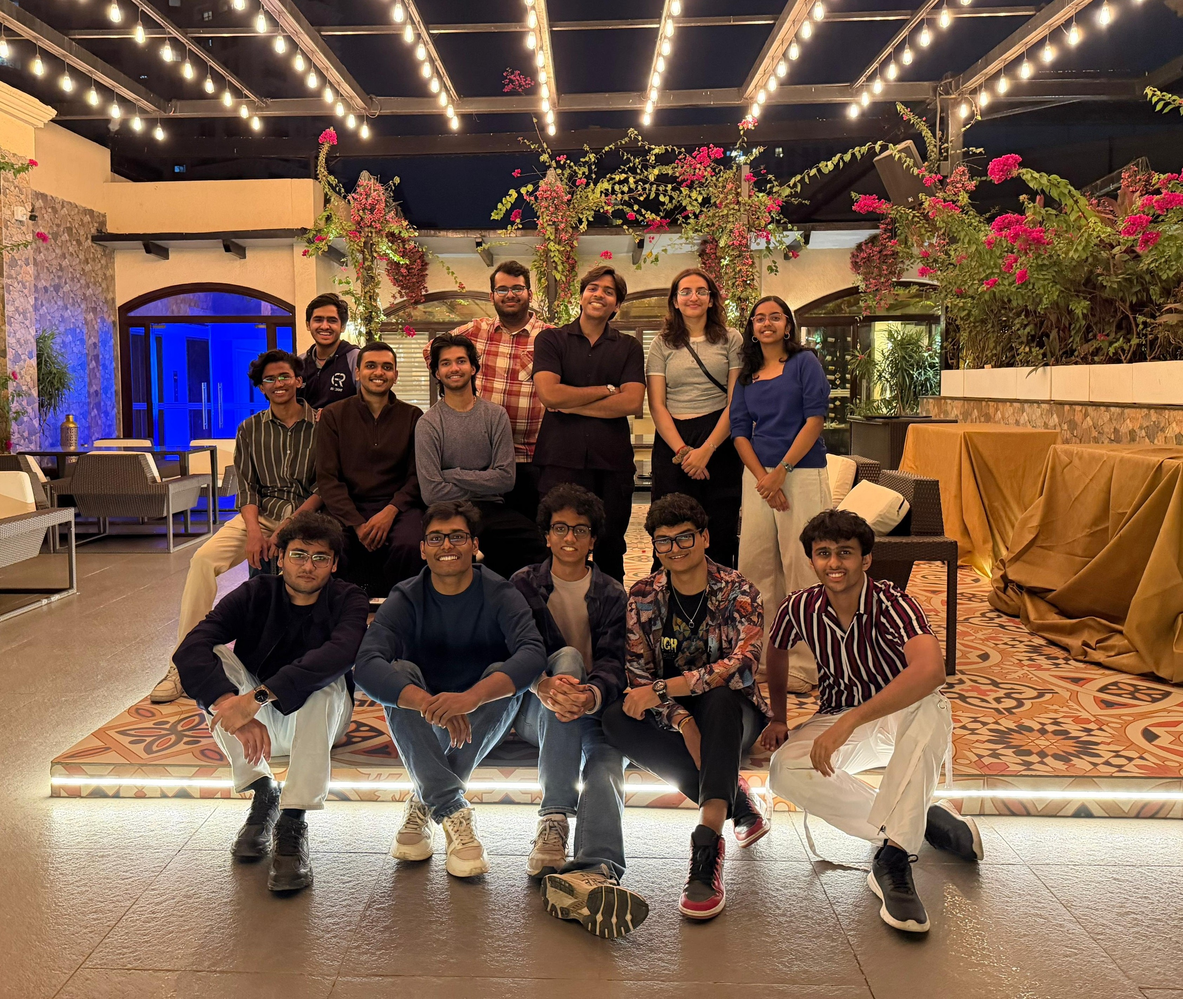
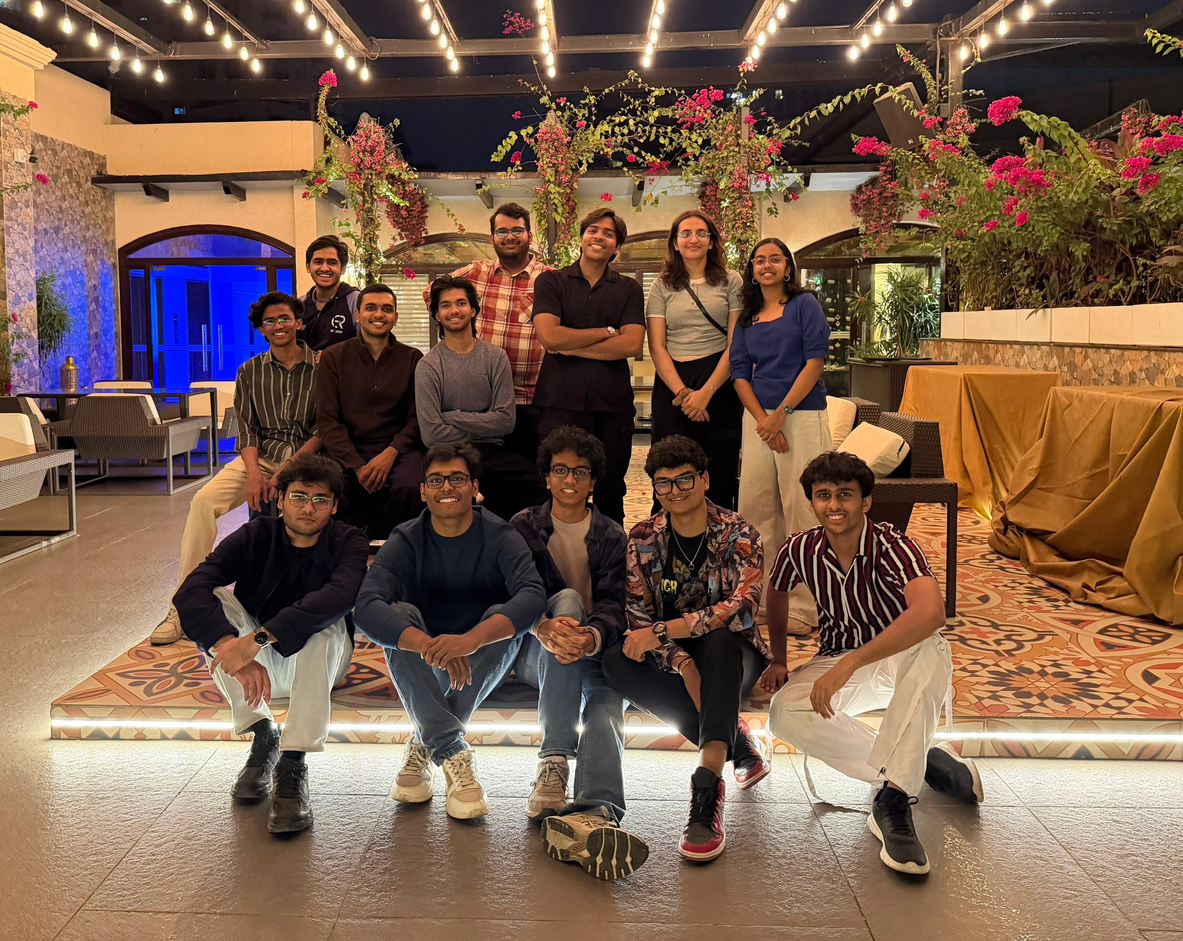
legacy_page_updated

diff --git a/src/components/LegacyPage.tsx b/src/components/LegacyPage.tsx
@@ -21,7 +21,8 @@ const LegacyPage = () => {
     { year: 2022, image: '/team/images/2022-23.jpg' },
     { year: 2021, image: '/team/images/2021-22.jpg' },
     { year: 2020, image: '/team/images/2020-21.jpg' },
-    { year: 2020, image: '/team/images/2019-20.jpg' },
+    { year: 2019, image: '/team/images/2019-20.jpg' },
+    { year: 2018, image: '/team/images/2018-19.jpg' }
   ];
 
   return (
@@ -306,6 +307,7 @@ const LegacyPage = () => {
           </div>
         </div>
       </section>
+      
 
       {/* Slide 8: Team 2019 - Image left, text right */}
       <section className="scroll-section flex items-center justify-center py-16 md:py-24">
@@ -343,7 +345,45 @@ const LegacyPage = () => {
         </div>
       </section>
 
-      {/* Slide 9: Full-screen Legacy Continuation */}
+            {/* Slide 9: Team 2018 - Image right, text left */}
+      <section className="scroll-section flex items-center justify-center py-16 md:py-24">
+        <div className="max-w-6xl w-full px-4">
+          <div className="grid grid-cols-1 md:grid-cols-2 gap-16 items-center">
+            <motion.div
+              initial={{ opacity: 0, x: -50 }}
+              whileInView={{ opacity: 1, x: 0 }}
+              transition={{ duration: 0.8 }}
+              viewport={{ once: true }}
+              className="md:order-2"
+            >
+              <div className="relative">
+                <div className="absolute -inset-5 bg-gradient-to-r from-purple-600 to-blue-500 rounded-2xl opacity-70 blur-xl"></div>
+                <div className="relative bg-gray-800 rounded-xl overflow-hidden border border-gray-700 shadow-2xl aspect-video">
+                  <img 
+                    src={teams[7].image} 
+                    alt={`Team ${teams[7].year}`}
+                    className="w-full h-full object-cover"
+                  />
+                </div>
+              </div>
+            </motion.div>
+            <motion.div
+              initial={{ opacity: 0, x: 50 }}
+              whileInView={{ opacity: 1, x: 0 }}
+              transition={{ delay: 0.3, duration: 0.8 }}
+              viewport={{ once: true }}
+              className="md:order-1 md:pr-10 md:text-right"
+            >
+              <h2 className="text-5xl md:text-7xl font-playfair mb-8">Team 2018-19</h2>
+              <p className="text-gray-300 text-xl max-w-md md:ml-auto">
+                Led by Abbey George & Bhishma Dedhia   
+              </p>
+            </motion.div>
+          </div>
+        </div>
+      </section>
+
+      {/* Slide 10: Full-screen Legacy Continuation */}
       <section className="scroll-section flex items-center justify-center relative min-h-screen">
         <motion.div
           ref={finalTextRef}
